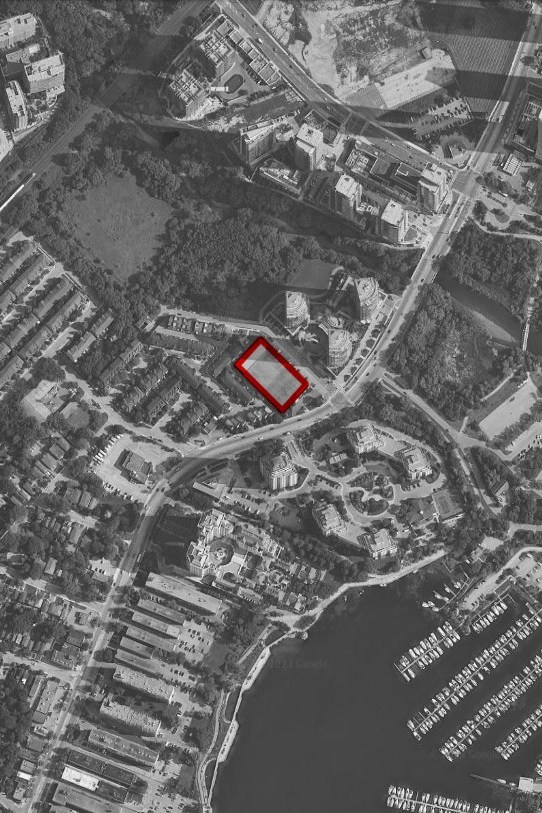
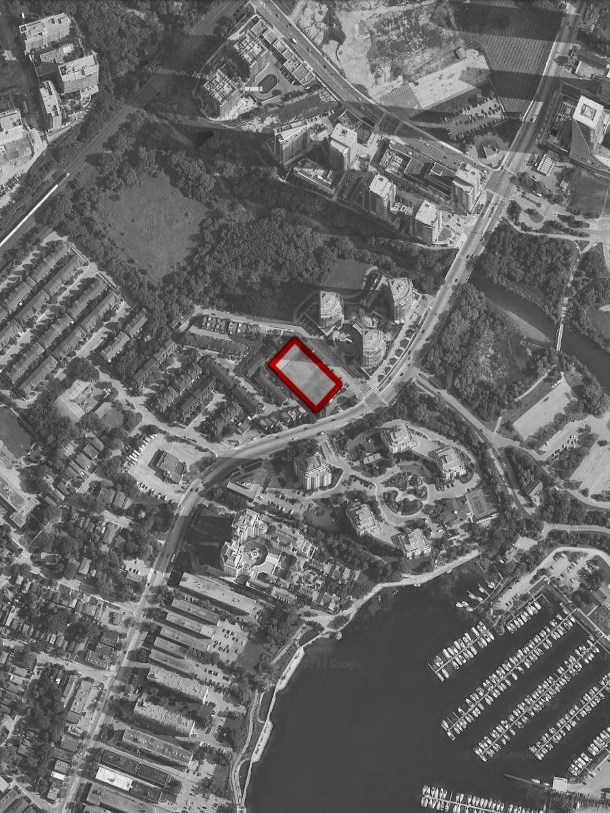
Beside-text site plans: 3:4 crops

diff --git a/project.html b/project.html
@@ -29,7 +29,7 @@
   <link rel="icon" href="assets/img/favicon.svg" type="image/svg+xml">
   <link rel="icon" href="assets/img/favicon-32.png" sizes="32x32" type="image/png">
   <link rel="apple-touch-icon" href="assets/img/apple-touch-icon.png">
-  <link rel="stylesheet" href="css/style.css?v=66">
+  <link rel="stylesheet" href="css/style.css?v=67">
 </head>
 <body data-page="project">
 
@@ -52,7 +52,7 @@
     <article class="project" id="project"></article>
   </main>
 
-  <script src="js/projects.js?v=66"></script>
-  <script src="js/main.js?v=66"></script>
+  <script src="js/projects.js?v=67"></script>
+  <script src="js/main.js?v=67"></script>
 </body>
 </html>

diff --git a/index.html b/index.html
@@ -34,7 +34,7 @@
   <link rel="preconnect" href="https://fonts.googleapis.com">
   <link rel="preconnect" href="https://fonts.gstatic.com" crossorigin>
   <link rel="stylesheet" href="https://fonts.googleapis.com/css2?family=Inter:wght@400;700&display=swap">
-  <link rel="stylesheet" href="css/style.css?v=66">
+  <link rel="stylesheet" href="css/style.css?v=67">
 </head>
 <body data-page="index">
 
@@ -161,7 +161,7 @@
     </div>
   </main>
 
-  <script src="js/projects.js?v=66"></script>
-  <script src="js/main.js?v=66"></script>
+  <script src="js/projects.js?v=67"></script>
+  <script src="js/main.js?v=67"></script>
 </body>
 </html>

diff --git a/css/style.css b/css/style.css
@@ -506,7 +506,7 @@ html.menu-entering .layout > :not(.menu) {
   margin-top: 1em;
 }
 
-/* desktop: a site plan crop (2:3) beside the description (besideText), its right edge
+/* desktop: a site plan crop (3:4) beside the description (besideText), its right edge
    on the gallery's right edge and its top level with the description's first line;
    the details row above stays as it is on every project page */
 .head-beside {

diff --git a/js/projects.js b/js/projects.js
@@ -60,7 +60,7 @@
 */
 
 // Bump whenever an image file is replaced under the same name, so browsers fetch the new one
-const IMAGE_VERSION = 22;
+const IMAGE_VERSION = 23;
 
 const CATEGORIES = [
   { id: "academic", label: "Academic", prefix: "A" },
